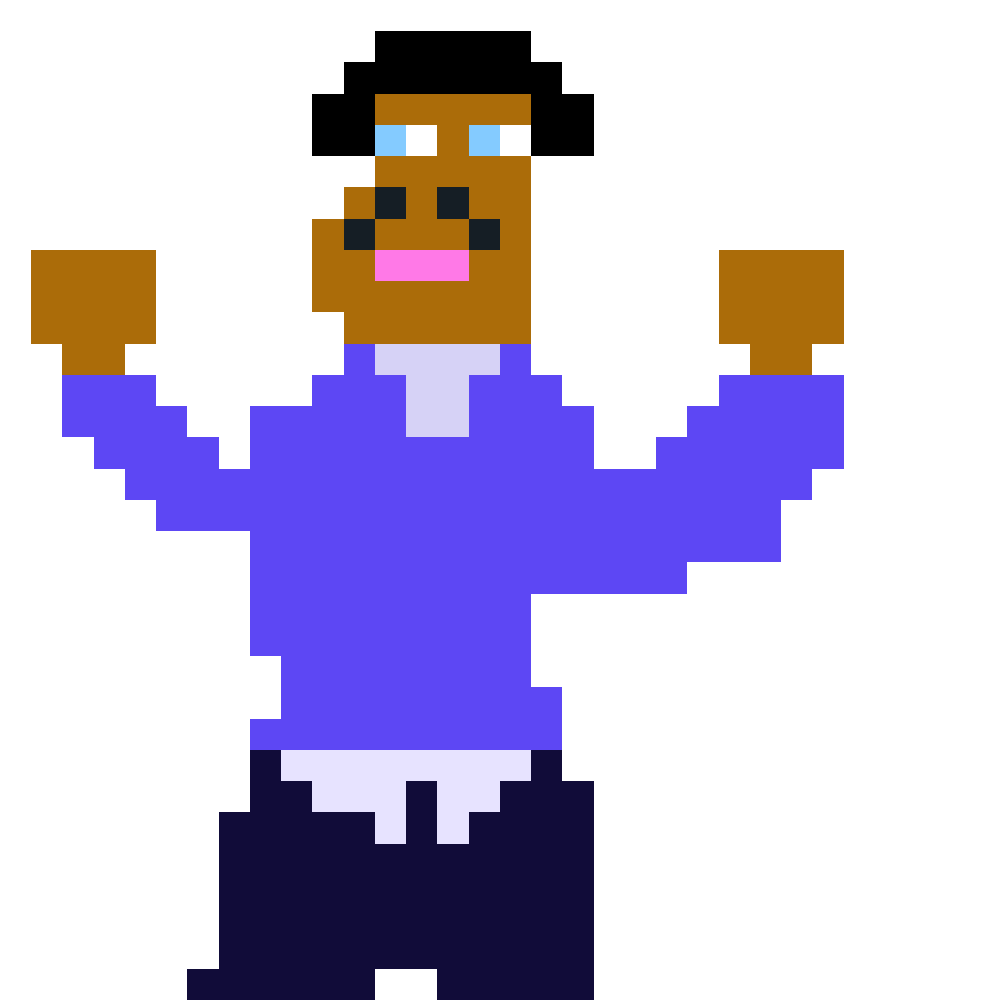
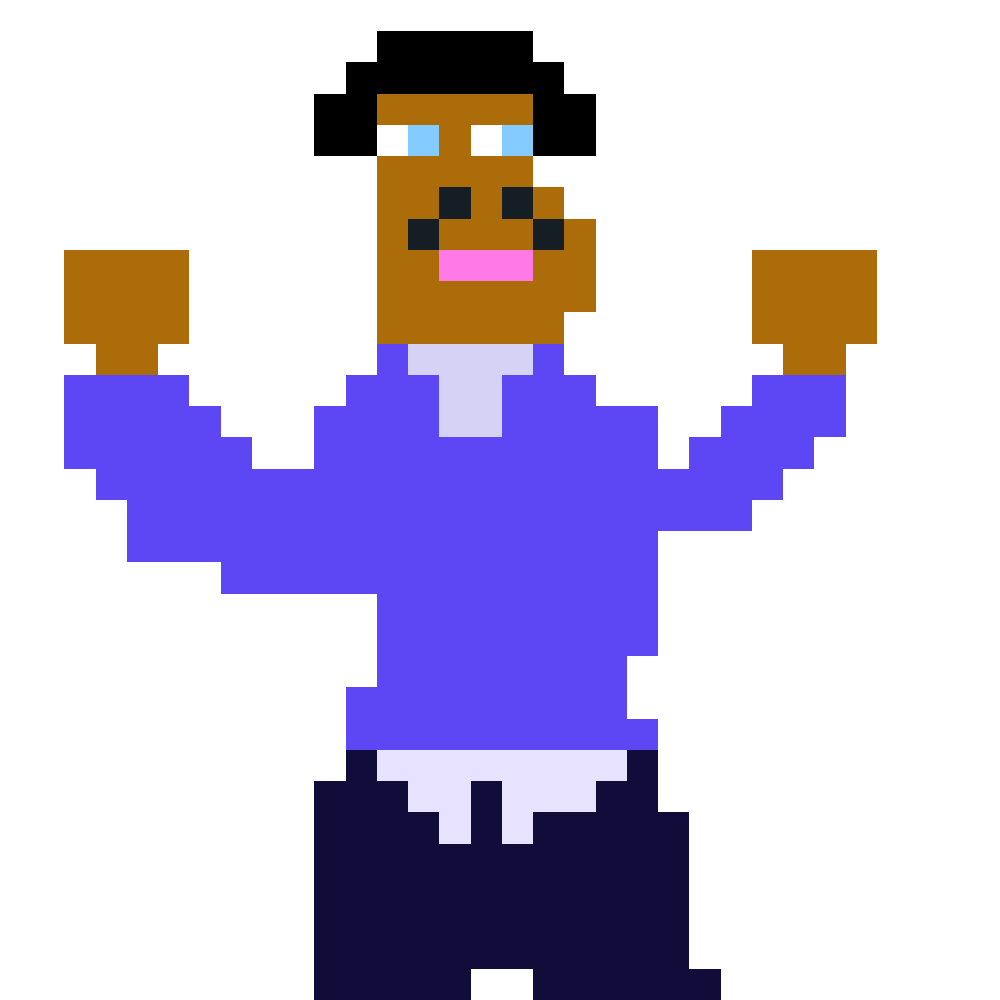
Added ImageButtons, began main UI, added background

diff --git a/src/main/java/scene/BattleScene.java b/src/main/java/scene/BattleScene.java
@@ -3,12 +3,14 @@ package scene;
 import engine.GameObject;
 import engine.SpriteRenderer;
 import engine.ResourceManager;
-import entity.BattleMenu;
+import menus.BattleMenu;
 import entity.Character;
 import entity.Monster;
+import menus.BattleMenuButtons;
+
+import java.util.Collections;
 
 import static com.raylib.Jaylib.WHITE;
-import static com.raylib.Raylib.*;
 
 public class BattleScene extends Scene {
 
@@ -29,13 +31,14 @@ public class BattleScene extends Scene {
         characters[0].AddComponent(new SpriteRenderer(
                 ResourceManager.GetTexture("resources/Mohammed.png"), WHITE
         ));
+        characters[0].transform.localPosition.x(220).y(290);
+
         characters[1].AddComponent(new SpriteRenderer(
                 ResourceManager.GetTexture("resources/Darwin_The_Wizard.png"), WHITE
         ));
+        characters[1].transform.localPosition.x(360).y(410);
 
         for (byte i = 0; i < characters.length; i++) {
-            // Temporary position
-            characters[i].transform.localPosition.x(10).y(150 + (175 * i));
             characters[i].transform.localScale = 0.2f;
 
             objects.add(characters[i]);
@@ -45,25 +48,32 @@ public class BattleScene extends Scene {
         monsters = new Monster[]{
                 new Monster("Billy", 50.0, 10.0),
                 new Monster("Goblin 1", 30.0, 5.0),
-                new Monster("Goblin 1", 30.0, 5.0)
+                new Monster("Goblin 2", 30.0, 5.0)
         };
 
         for (byte i = 1; i < monsters.length; i++) {
             monsters[i].AddComponent(new SpriteRenderer(
                     ResourceManager.GetTexture("resources/Goblin.png"), WHITE
             ));
+            monsters[i].transform.localScale = 0.15f;
         }
 
         monsters[0].AddComponent(new SpriteRenderer(
                 ResourceManager.GetTexture("resources/Billy.png"), WHITE
         ));
+        monsters[0].transform.localScale = 0.2f;
+        monsters[0].transform.localPosition.x(740).y(75);
 
-        for (byte i = 0; i < monsters.length; i++) {
-            monsters[i].transform.localPosition.x(1090).y(75 + (180 * i));
-            monsters[i].transform.localScale = 0.2f;
+        monsters[1].transform.localPosition.x(590).y(-5);
+        monsters[2].transform.localPosition.x(435).y(60);
 
-            objects.add(monsters[i]);
-        }
+        Collections.addAll(objects, monsters);
+
+        GameObject background = new GameObject();
+        background.AddComponent(new SpriteRenderer(
+                ResourceManager.GetTexture("resources/bg.png"), WHITE
+        ));
+        objects.add(background);
 
         battleMenu = new BattleMenu();
         objects.add(battleMenu);
@@ -75,8 +85,9 @@ public class BattleScene extends Scene {
             gameObject.Update();
 
         // Temporary :)
-        x += 10.0f + (5.0f * GetFrameTime());
-        characters[0].transform.localPosition.x(x);
+        if (battleMenu.getFaceButtonAt(BattleMenuButtons.FACE_DEFEND.index).isPressed()) {
+            battleMenu.getFaceButtonAt(BattleMenuButtons.FACE_DEFEND.index).visible = false;
+        }
     }
 
 }

diff --git a/src/main/java/menus/BattleMenu.java b/src/main/java/menus/BattleMenu.java
@@ -1,0 +1,61 @@
+package menus;
+
+import engine.*;
+
+import static com.raylib.Jaylib.BLACK;
+import static com.raylib.Raylib.*;
+
+public class BattleMenu extends GameObject {
+
+    private final int WIDTH = 300;
+    private final int HEIGHT = 300;
+
+    private final int BORDER_SIZE = 12;
+
+    private final int BUTTON_WIDTH = WIDTH / 2;
+    private final int BUTTON_HEIGHT = HEIGHT / 2;
+
+    private GameObject buttons;
+    private ImageButton[] faceButtons;
+
+    public BattleMenu() {
+        super();
+
+        buttons = new GameObject();
+        AddChild(buttons);
+
+        buttons.transform.localScale = 0.15f;
+
+        faceButtons = new ImageButton[]{
+                new ImageButton("resources/buttons/Attack.png"),
+                new ImageButton("resources/buttons/Item.png", BUTTON_WIDTH, 0),
+                new ImageButton("resources/buttons/Defend.png", 0, BUTTON_HEIGHT),
+                new ImageButton("resources/buttons/Flee.png", BUTTON_WIDTH, BUTTON_HEIGHT)
+        };
+        for (ImageButton face : faceButtons) {
+            buttons.AddComponent(face);
+        }
+
+        buttons.transform.SetGlobalPosition(new Vector2().x(GetRenderWidth() - WIDTH - ((float) BORDER_SIZE / 2))
+                .y(GetRenderHeight() - HEIGHT - ((float) BORDER_SIZE / 2)));
+
+        GameObject buttonBackground = new GameObject();
+        buttonBackground.AddComponent(new RectangleRenderer(WIDTH + BORDER_SIZE, HEIGHT + BORDER_SIZE, BLACK, false));
+        buttonBackground.transform.SetGlobalPosition(new Vector2().x(GetRenderWidth() - WIDTH - BORDER_SIZE).y(GetRenderHeight() - HEIGHT - BORDER_SIZE));
+        AddChild(buttonBackground);
+    }
+
+    @Override
+    public void Update() {
+        buttons.Update();
+    }
+
+    public ImageButton[] getFaceButtons() {
+        return faceButtons;
+    }
+
+    public ImageButton getFaceButtonAt(int i) {
+        return faceButtons[i];
+    }
+
+}

diff --git a/src/main/java/engine/ImageButton.java b/src/main/java/engine/ImageButton.java
@@ -1,0 +1,67 @@
+package engine;
+
+import static com.raylib.Jaylib.BLACK;
+import static com.raylib.Jaylib.WHITE;
+import static com.raylib.Raylib.*;
+
+public class ImageButton extends Component {
+
+    public String imagePath;
+    public float offX, offY;
+    public Texture texture;
+
+    private boolean pressed;
+    public boolean visible = true;
+
+    public ImageButton() {
+        type = "engine.ImageButton";
+    }
+
+    public ImageButton(String imagePath) {
+        type = "engine.ImageButton";
+
+        this.imagePath = imagePath;
+
+        texture = ResourceManager.GetTexture(imagePath);
+    }
+
+    public ImageButton(String imagePath, float offX, float offY) {
+        type = "engine.ImageButton";
+
+        this.imagePath = imagePath;
+        this.offX = offX;
+        this.offY = offY;
+
+        texture = ResourceManager.GetTexture(imagePath);
+    }
+
+    @Override
+    public void Update() {
+        pressed = false;
+
+        if (visible) {
+            if (CheckCollisionPointRec(GetMousePosition(), new Rectangle()
+                    .x(parentObject.transform.localPosition.x() + offX)
+                    .y(parentObject.transform.localPosition.y() + offY)
+                    .width(texture.width())
+                    .height(texture.height()))) {
+                if (IsMouseButtonPressed(MOUSE_BUTTON_LEFT)) {
+                    pressed = true;
+                }
+            }
+        }
+    }
+
+    @Override
+    public void Render() {
+        if (visible) {
+            DrawTextureEx(texture, new Vector2()
+                    .x(parentObject.transform.localPosition.x() + offX)
+                    .y(parentObject.transform.localPosition.y() + offY), parentObject.transform.localRotation, parentObject.transform.localScale, WHITE);
+        }
+    }
+
+    public boolean isPressed() {
+        return pressed;
+    }
+}

diff --git a/src/main/java/menus/BattleMenuButtons.java b/src/main/java/menus/BattleMenuButtons.java
@@ -1,0 +1,16 @@
+package menus;
+
+public enum BattleMenuButtons {
+
+    FACE_ATTACK(0),
+    FACE_ITEM(1),
+    FACE_DEFEND(2),
+    FACE_FLEE(3);
+
+    public final int index;
+
+    BattleMenuButtons(int index) {
+        this.index = index;
+    }
+
+}
